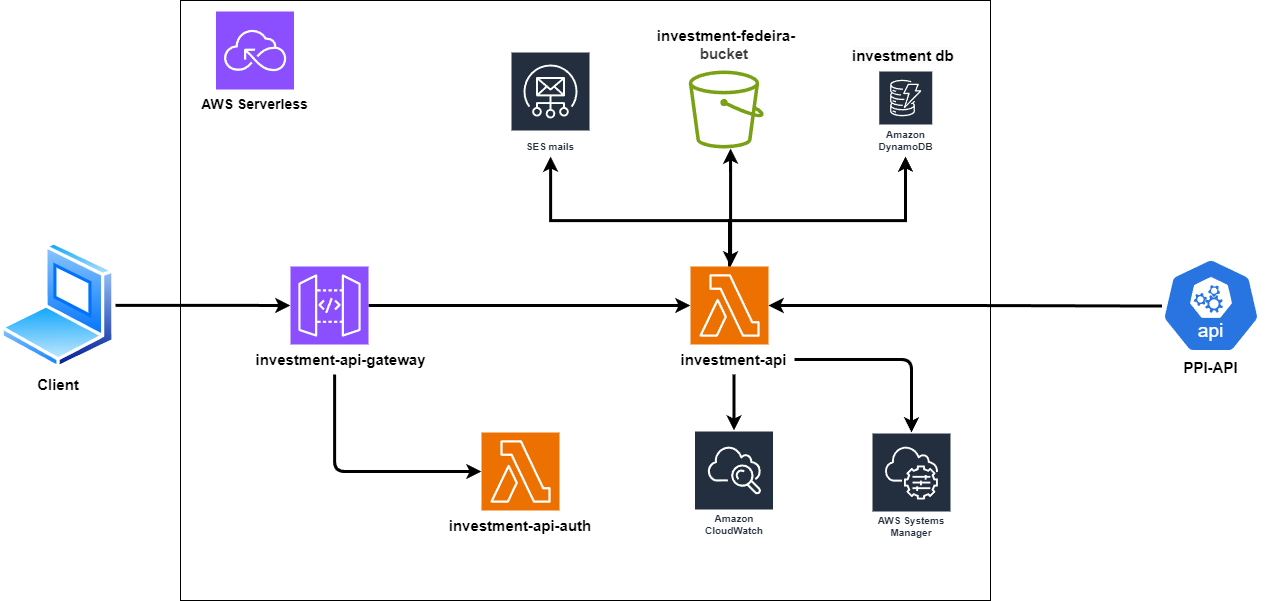
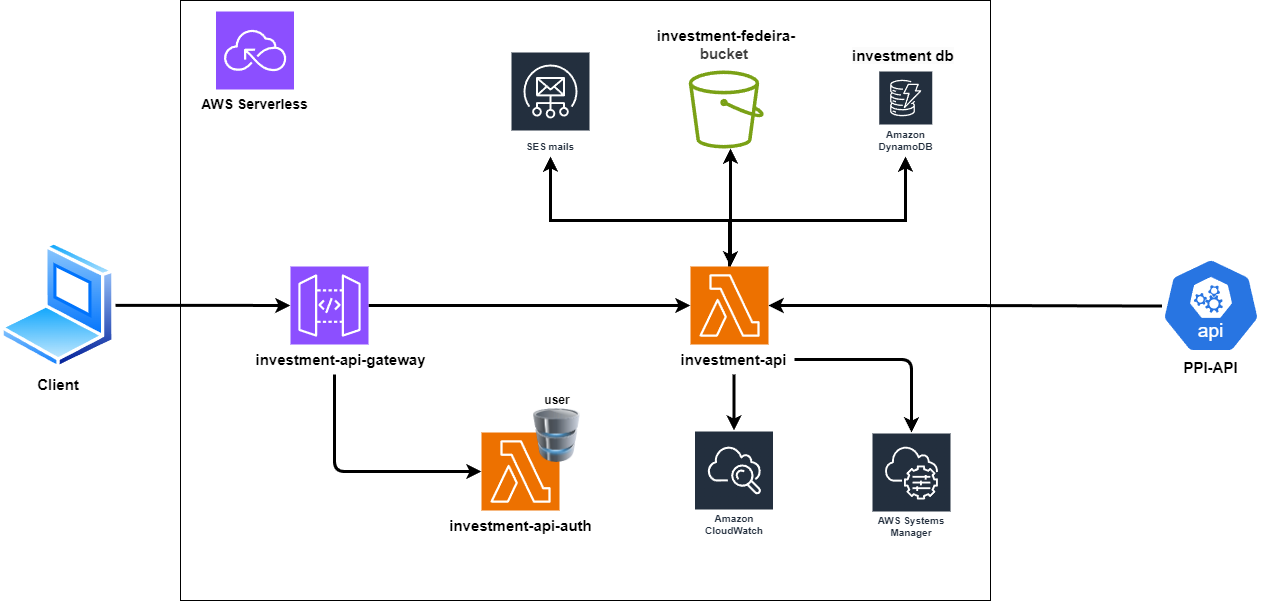
feat: added user tabla and create user script

diff --git a/scripts/insert-user.ts b/scripts/insert-user.ts
@@ -1,0 +1,47 @@
+// Script to add user credentials to DynamoDB:
+
+import AWS from 'aws-sdk';
+import bcrypt from 'bcryptjs';
+import dotenv from 'dotenv';
+
+dotenv.config();
+
+const email = process.env.USER_EMAIL;
+const plainPassword = process.env.USER_PASSWORD;
+
+if (!email || !plainPassword) {
+  console.error('USER_EMAIL o USER_PASSWORD not inserted in .env file.');
+  process.exit(1);
+}
+
+// Configurar DynamoDB para entorno local
+const dynamoDb = new AWS.DynamoDB.DocumentClient({
+  region: 'localhost',
+  endpoint: 'http://localhost:8000',
+  accessKeyId: 'fakeMyKeyId',
+  secretAccessKey: 'fakeSecretAccessKey',
+});
+
+// Encriptar la contraseña
+const saltRounds = 10;
+
+const insertUser = async () => {
+  try {
+    const hashedPassword = await bcrypt.hash(plainPassword, saltRounds);
+
+    const params = {
+      TableName: 'UserCredentials',
+      Item: {
+        email,
+        password: hashedPassword,
+      },
+    };
+
+    await dynamoDb.put(params).promise();
+    console.log('User inserted.');
+  } catch (error) {
+    console.error('Error inserting user:', error);
+  }
+};
+
+insertUser();

diff --git a/authorization-services/infrastructure/repositories/DyanmoUserRepository.ts b/authorization-services/infrastructure/repositories/DyanmoUserRepository.ts
@@ -1,11 +1,24 @@
 // External dependencies:
 import { DynamoDB } from 'aws-sdk';
-import bcrypt from 'bcrypt';
+import bcrypt from 'bcryptjs';
 
 // Internal dependencies:
 import { IUserRepository } from '../../application/interfaces/IUserRepository';
 
-const dynamoDb = new DynamoDB.DocumentClient();
+// const dynamoDb = new DynamoDB.DocumentClient();
+const isOffline = process.env.IS_OFFLINE === 'true';
+
+const dynamoDb = new DynamoDB.DocumentClient(
+  isOffline
+    ? {
+        region: 'localhost',
+        endpoint: 'http://localhost:8000',
+        accessKeyId: 'fake',
+        secretAccessKey: 'fake',
+      }
+    : {}
+);
+
 const TABLE_NAME = 'UserCredentials';
 
 export class DynamoUserRepository implements IUserRepository {

diff --git a/dynamodb-config.ts b/dynamodb-config.ts
@@ -10,6 +10,8 @@ interface TableDefinition {
 const dynamoDb = new AWS.DynamoDB({
   region: 'localhost',
   endpoint: 'http://localhost:8000',
+  accessKeyId: 'fakeMyKeyId',
+  secretAccessKey: 'fakeSecretAccessKey',
 });
 
 const tables: TableDefinition[] = [
